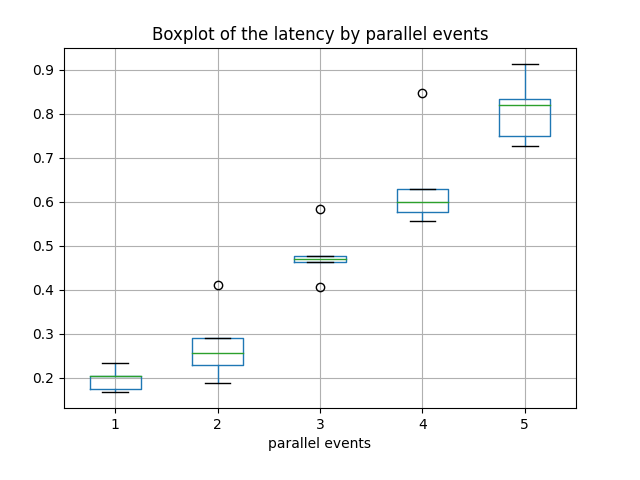
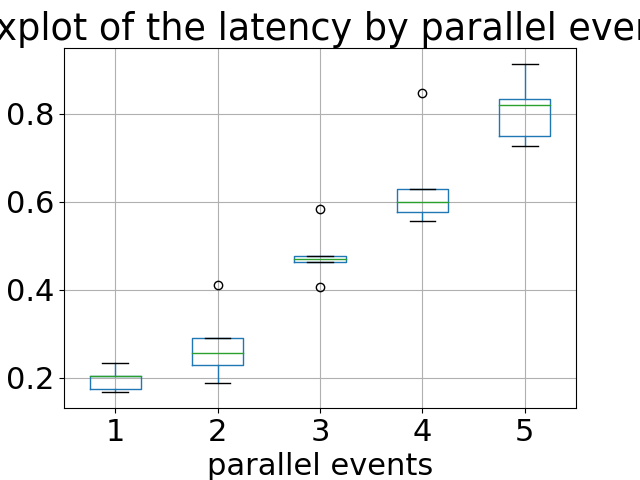
update graphics

diff --git a/caseStudies/visualizePerformanceTestResults.py b/caseStudies/visualizePerformanceTestResults.py
@@ -1,12 +1,14 @@
 import pandas
 import sys
 import matplotlib.pyplot as plt
+import matplotlib
+
+matplotlib.rcParams.update({'font.size': 22})
 
 def main(file_path):
     df = pandas.read_csv(file_path)
     df.boxplot(column="throughput", by="parallel events")
-    plt.xticks(rotation=45)
-    plt.title("Boxplot of the throughput by concurrent events")
+    plt.title("Boxplot of the artifacts event publishing throughput \n with one subscription")
     plt.suptitle("")
     plt.xlabel("Amount of concurrent events")
     plt.ylabel("Throughput (events/second)")
